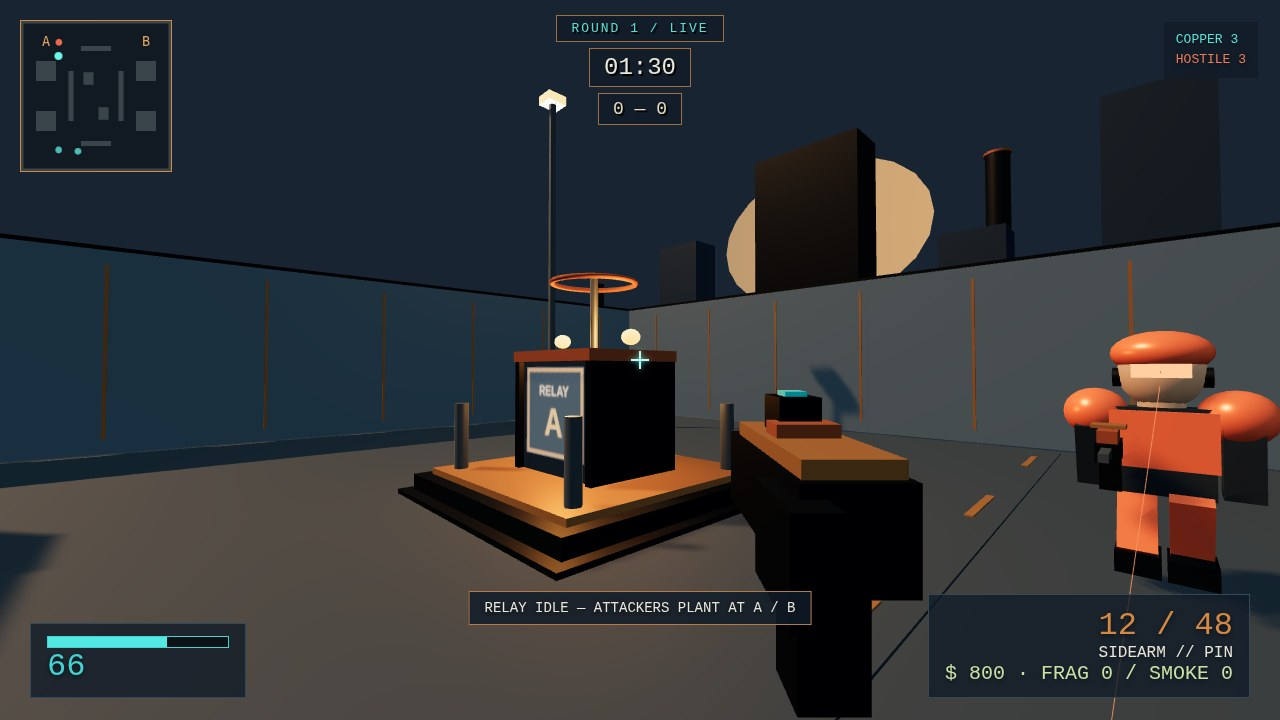
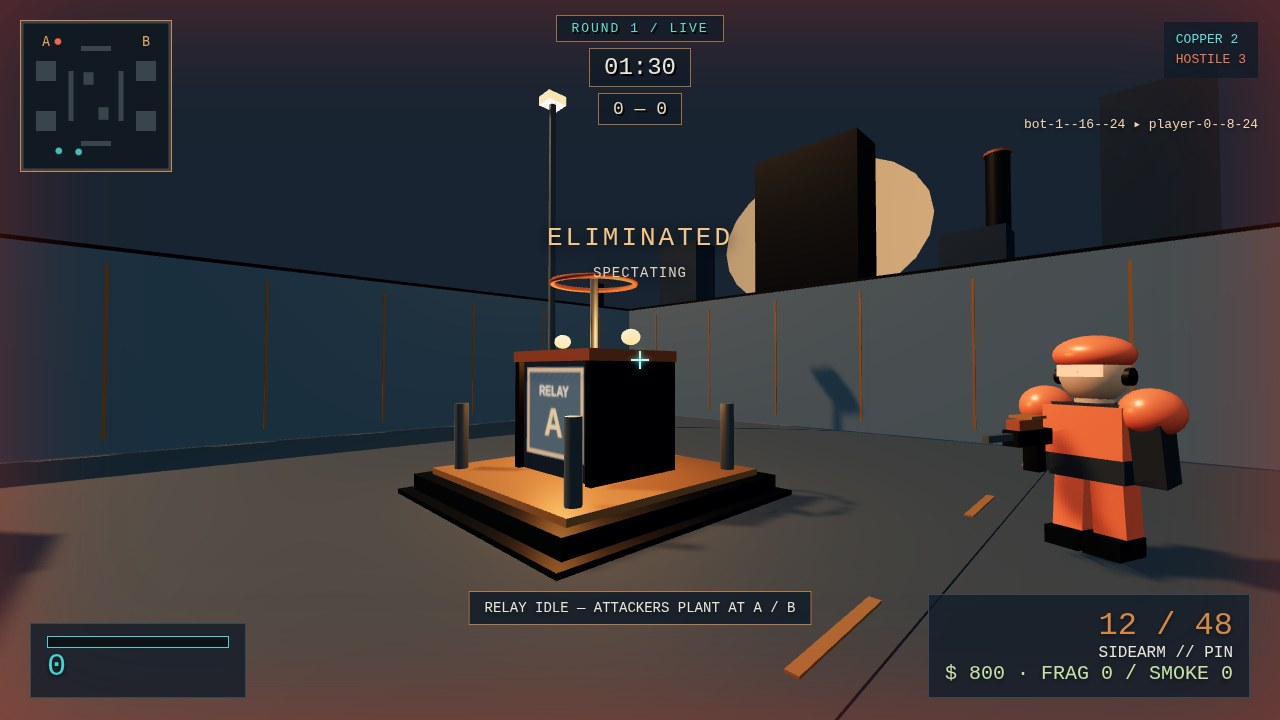
Fix objective lifecycle and input; add hearing and tactical bot roles

Changed region(s): [[0.0, 0.0, 1.0, 1.0], [0.4062, 0.3056, 0.5938, 0.3667], [0.4688, 0.3667, 0.5312, 0.3972]]

diff --git a/game/sim.js b/game/sim.js
@@ -33,23 +33,28 @@ function entity(type, team, x, z, weapon = 'pistol', money = 800) {
     yaw: team === 0 ? 0 : Math.PI, pitch: 0, crouch: false, sprint: false, aim: false, dead: false, armor: 0,
     weapon, mag: gun.mag, reserve: gun.reserve, reload: 0, fireDelay: random() * 300, recoil: 0,
     grenades: { frag: 0, smoke: 0 }, money, ai: type === 'bot' ? { target: null, route: [], routeAt: 0, think: random() * 300,
-      plant: 0, defuse: 0, pathKey: '', pathAt: 0, pathAge: 1000, stuckMs: 0, lastX: x, lastZ: z } : null };
+      plant: 0, defuse: 0, roleSite: x < 0 ? 0 : 1, pathKey: '', pathAt: 0, pathAge: 1000, stuckMs: 0, lastX: x, lastZ: z,
+      lastHeard: -Infinity, investigateX: x, investigateZ: z, investigateUntil: 0, engageMs: 0, burstMs: 0 } : null };
 }
 function newRound() {
   State.phase = 'BUY'; State.timer = BUY_MS; State.elapsed = 0; State.winner = null;
-  State.relay = { status: 'IDLE', site: null, progress: 0, fuse: FUSE_MS, defuse: 0 };
+  State.relay = { status: 'IDLE', site: null, progress: 0, plantOwner: null, plantSite: null, fuse: FUSE_MS, defuse: 0, defuseOwner: null };
   State.tracers.length = 0; State.grenades.length = 0;
   const oldPlayer = State.entities[0], playerMoney = State.cash[0];
-  const carry = oldPlayer ? { weapon: oldPlayer.weapon, armor: oldPlayer.armor, grenades: { ...oldPlayer.grenades } } : null;
+  const carry = oldPlayer&&!oldPlayer.dead ? { weapon: oldPlayer.weapon, armor: oldPlayer.armor, grenades: { ...oldPlayer.grenades } } : null;
   State.entities = [entity('player', 0, -8, 24, carry?.weapon || 'pistol', playerMoney),
     entity('bot', 0, -14, 24, 'rifle', State.cash[0]), entity('bot', 0, -5, 24, 'rifle', State.cash[0]),
     entity('bot', 1, -16, -24, 'rifle', State.cash[1]), entity('bot', 1, 16, -24, 'rifle', State.cash[1]), entity('bot', 1, 0, -25, 'sniper', State.cash[1])];
   if (carry) Object.assign(State.entities[0], carry);
   State.entities.forEach(e => { e.money = e.team === 0 ? State.cash[0] : State.cash[1]; });
+  const smokeCarrier=State.entities.find(e=>e.type==='bot'&&e.team===0),fragCarrier=State.entities.find(e=>e.type==='bot'&&e.team===1);
+  if(smokeCarrier&&smokeCarrier.money>=300){smokeCarrier.money-=300;smokeCarrier.grenades.smoke=1;}
+  if(fragCarrier&&fragCarrier.money>=400){fragCarrier.money-=400;fragCarrier.grenades.frag=1;}
+  State.events.length=0;
 }
 export function startMatch(seed = 12345) {
   State.score = [0, 0]; State.cash = [800, 8000]; State.round = 1;
-  State.rng = (Math.abs(Math.trunc(seed)) % 2147483646) + 1; State.events = []; newRound(); return State;
+  State.rng = (Math.abs(Math.trunc(seed)) % 2147483646) + 1; State.events = []; State.entities = []; newRound(); return State;
 }
 startMatch();
 
@@ -77,20 +82,29 @@ function rayAABB(o, d, maxDistance, box) {
 function wallDistance(o, d, max) {
   let nearest = max;
   for (const b of BOXES) nearest = Math.min(nearest, rayAABB(o, d, nearest, b));
-  for (const g of State.grenades) if (g.kind === 'smoke' && g.fuse < 0 && Math.hypot(o.x-g.x,o.z-g.z) < 4 && Math.abs(o.y-g.y) < 3) nearest = Math.min(nearest, 0);
+  return nearest;
+}
+function smokeDistance(o,d,max) {
+  let nearest=max;
+  for(const g of State.grenades) if(g.kind==='smoke'&&g.fuse<0){
+    const ox=o.x-g.x,oy=o.y-(g.y+1),oz=o.z-g.z,b=ox*d.x+oy*d.y+oz*d.z,c=ox*ox+oy*oy+oz*oz-3.5*3.5,disc=b*b-c;
+    if(disc<0)continue;const near=-b-Math.sqrt(disc),far=-b+Math.sqrt(disc);if(far>=0&&near<=max)nearest=Math.min(nearest,Math.max(0,near));
+  }
   return nearest;
 }
 function look(e, yaw, pitch) {
   const cp = Math.cos(pitch); return { x: -Math.sin(yaw)*cp, y: Math.sin(pitch), z: -Math.cos(yaw)*cp };
 }
-function visible(a, b) {
+export function canSee(a,b) {
   if (!a || !b || !Number.isFinite(b.x) || !Number.isFinite(b.z)) return false;
   const origin = { x:a.x, y:a.y+(a.crouch?1.05:1.55), z:a.z }, target = { x:b.x, y:b.y+(b.crouch?1.05:1.55), z:b.z };
   const dx=target.x-origin.x,dy=target.y-origin.y,dz=target.z-origin.z,length=Math.hypot(dx,dy,dz);
-  return wallDistance(origin,{x:dx/length,y:dy/length,z:dz/length},length) >= length-.2;
+  const direction={x:dx/length,y:dy/length,z:dz/length};
+  return wallDistance(origin,direction,length)>=length-.2&&smokeDistance(origin,direction,length)>=length-.2;
 }
+const visible=canSee;
 function traceShot(e, yaw, pitch, aiming = false) {
-  const gun = WEAPONS[e.weapon], moving = Math.hypot(e.vx,e.vz), spread = gun.spread * (aiming ? .34 : 1) + moving*.003 + e.recoil;
+  const gun = WEAPONS[e.weapon], moving = Math.hypot(e.vx,e.vz), spread = gun.spread * (aiming ? .34 : 1) * (e.crouch ? .75 : 1) * (e.sprint ? 2 : 1) + moving*.003 + e.recoil;
   yaw += (random()-.5)*spread; pitch += (random()-.5)*spread;
   const d = look(e,yaw,pitch), o = { x:e.x, y:e.y+(e.crouch?1.05:1.55), z:e.z }, range = e.weapon === 'sniper' ? 100 : 75;
   let nearest = wallDistance(o,d,range), victim = null, head = false;
@@ -107,7 +121,7 @@ function traceShot(e, yaw, pitch, aiming = false) {
   }
   const end={x:o.x+d.x*nearest,y:o.y+d.y*nearest,z:o.z+d.z*nearest};
   State.tracers.push({from:o,to:end,life:100,team:e.team});
-  event('shot',{entity:e.id,team:e.team,weapon:e.weapon});
+  event('shot',{entity:e.id,team:e.team,weapon:e.weapon,x:e.x,z:e.z});
   if (victim) damage(e,victim,gun.dmg*(head?3:1),head);
 }
 function damage(source,target,amount,head=false) {
@@ -174,25 +188,37 @@ function routeFor(e,target,dt) {
 }
 function aiInput(e,dt) {
   const ai=e.ai;ai.think-=dt;let target=ai.target&&State.entities.find(t=>t.id===ai.target&&!t.dead);
+  if(target&&!visible(e,target)){target=null;ai.target=null;}
   if(ai.think<=0){target=nearestEnemy(e);ai.target=target?.id||null;ai.think=220+random()*180;}
+  if(!target){const sound=State.events.findLast?.(ev=>ev.type==='shot'&&ev.team!==e.team&&ev.time>=State.elapsed-1500&&Math.hypot(ev.x-e.x,ev.z-e.z)<=22);
+    if(sound&&sound.time>ai.lastHeard){ai.lastHeard=sound.time;ai.investigateX=sound.x;ai.investigateZ=sound.z;ai.investigateUntil=State.elapsed+3000;}}
   const attacker=e.team===0;let objective=null;
-  if(attacker&&State.relay.status==='IDLE')objective=SITES.reduce((a,s)=>dist(e,s)<dist(e,a)?s:a,SITES[0]);
+  if(attacker&&State.relay.status==='IDLE')objective=SITES[ai.roleSite];
   else if(!attacker&&State.relay.status==='PLANTED')objective=State.relay.site;
-  const waypoint=routeFor(e,objective||target||{x:0,z:0},dt);
+  else if(!attacker) objective=SITES[ai.roleSite];
+  else if(attacker&&State.relay.status==='PLANTED')objective=State.relay.site;
+  const investigate=!target&&State.elapsed<ai.investigateUntil?{x:ai.investigateX,z:ai.investigateZ}:null;
+  const holdObjective=objective&&((attacker&&State.relay.status==='IDLE')||(!attacker&&State.relay.status==='PLANTED'));
+  const approachOffset=attacker&&State.relay.status==='PLANTED'?4:5;
+  const goal=investigate||(objective?{x:objective.x,z:holdObjective?objective.z:objective.z+approachOffset}:target)||{x:0,z:0};
+  const waypoint=routeFor(e,goal,dt), range=target?dist(e,target):Infinity;
+  let moving=true,crouch=false;
+  if(objective&&dist(e,objective)<2.3){moving=false;if(attacker&&State.relay.status==='IDLE')ai.plant+=dt;}
+  else if(attacker&&State.relay.status==='IDLE')ai.plant=0;
+  else if(target&&range<20){ai.engageMs+=dt;ai.burstMs-=dt;crouch=true;if(ai.burstMs<=0){if(ai.engageMs<700){moving=false;}else{moving=true;ai.engageMs=0;ai.burstMs=180+random()*120;}}}
+  else {ai.engageMs=0;ai.burstMs=0;}
   let yaw=e.yaw,pitch=0,fireNow=false;
-  if(target){const dx=target.x-e.x,dy=target.y+1.2-(e.y+1.5),dz=target.z-e.z,yawTarget=Math.atan2(-dx,-dz),pitchTarget=Math.atan2(dy,Math.hypot(dx,dz));yaw+=clamp(Math.atan2(Math.sin(yawTarget-yaw),Math.cos(yawTarget-yaw)),-dt*.003,dt*.003);pitch=pitchTarget+(random()-.5)*.03;fireNow=dist(e,target)<38&&visible(e,target)&&Math.abs(Math.atan2(Math.sin(yawTarget-yaw),Math.cos(yawTarget-yaw)))<.12;}
+  if(target){const dx=target.x-e.x,dy=target.y+1.2-(e.y+1.5),dz=target.z-e.z,yawTarget=Math.atan2(-dx,-dz),pitchTarget=Math.atan2(dy,Math.hypot(dx,dz));yaw+=clamp(Math.atan2(Math.sin(yawTarget-yaw),Math.cos(yawTarget-yaw)),-dt*.003,dt*.003);pitch=pitchTarget+(random()-.5)*.03;fireNow=range<38&&visible(e,target)&&Math.abs(Math.atan2(Math.sin(yawTarget-yaw),Math.cos(yawTarget-yaw)))<.12;}
   else {const dx=waypoint.x-e.x,dz=waypoint.z-e.z;if(Math.hypot(dx,dz)>1)yaw=Math.atan2(-dx,-dz);}
+  if(e.grenades.smoke&&target&&range>=8&&range<=18&&e.team===0){const gx=target.x, gz=target.z;if(!State.entities.some(a=>!a.dead&&a.team===e.team&&Math.hypot(a.x-gx,a.z-gz)<4))grenade(e,'smoke',Math.atan2(-(gx-e.x),-(gz-e.z)),0);}
+  if(e.grenades.frag&&target&&range>=8&&range<=18&&e.team===1){const gx=target.x,gz=target.z;if(!State.entities.some(a=>!a.dead&&a.team===e.team&&Math.hypot(a.x-gx,a.z-gz)<4))grenade(e,'frag',Math.atan2(-(gx-e.x),-(gz-e.z)),.12);}
   e.yaw=yaw;e.pitch=pitch;
-  if(objective&&dist(e,objective)<2&&attacker&&State.relay.status==='IDLE')ai.plant+=dt;else ai.plant=0;
-  if(objective&&dist(e,objective)<2&&!attacker&&State.relay.status==='PLANTED')ai.defuse+=dt;else ai.defuse=0;
-  return {moveX:waypoint.x-e.x,moveZ:waypoint.z-e.z,yaw,pitch,fire:fireNow,aim:true};
+  return {moveX:moving?waypoint.x-e.x:0,moveZ:moving?waypoint.z-e.z:0,yaw,pitch,fire:fireNow,aim:true,crouch};
 }
 function interactEntity(e, input, dt) {
   if(!input.interact||e.dead)return;
-  const attackers=State.entities.filter(t=>!t.dead&&t.team===0),defenders=State.entities.filter(t=>!t.dead&&t.team===1);
-  if(State.relay.status==='IDLE'&&e.team===0){const site=SITES.find(s=>dist(e,s)<2.4);if(site){State.relay.progress+=dt;if(State.relay.progress>=3000){State.relay.status='PLANTED';State.relay.site=site;State.relay.fuse=FUSE_MS;State.relay.progress=0;event('planted',{site:site.id});}}else State.relay.progress=0;}
-  else if(State.relay.status==='PLANTED'&&e.team===1&&dist(e,State.relay.site)<2.4){State.relay.defuse+=dt;if(State.relay.defuse>=5000){State.relay.status='DEFUSED';event('defused');endRound(1);}}else if(e.team===1)State.relay.defuse=0;
-  if(attackers.length===0)endRound(1);else if(defenders.length===0&&State.relay.status!=='PLANTED')endRound(0);
+  if(State.relay.status==='IDLE'&&e.team===0){const site=SITES.find(s=>dist(e,s)<2.4);if(site){if(State.relay.plantOwner!==e.id||State.relay.plantSite?.id!==site.id){State.relay.progress=0;State.relay.plantOwner=e.id;State.relay.plantSite=site;}State.relay.progress+=dt;if(State.relay.progress>=3000){State.relay.status='PLANTED';State.relay.site=site;State.relay.fuse=FUSE_MS;State.relay.progress=0;State.relay.plantOwner=null;event('planted',{site:site.id});}}}
+  else if(State.relay.status==='PLANTED'&&e.team===1&&dist(e,State.relay.site)<2.4){State.relay.defuseOwner=e.id;State.relay.defuse+=dt;if(State.relay.defuse>=5000){State.relay.status='DEFUSED';event('defused');endRound(1);}}
 }
 export function interact(e=State.entities[0],dt=16) { if(!e||State.phase!=='LIVE')return false;interactEntity(e,{interact:true},dt);return true; }
 function updateGrenades(dt) {
@@ -202,12 +228,27 @@ function updateGrenades(dt) {
     else if(g.kind==='smoke'&&g.fuse<=0){g.fuse=-1;g.vx=0;g.vz=0;g.vy=0;g.life-=dt;if(g.life<=0)State.grenades.splice(i,1);}
   }
 }
-function checkElimination() { const alive=[0,1].map(team=>State.entities.some(e=>!e.dead&&e.team===team));if(!alive[0])endRound(1);else if(!alive[1]&&State.relay.status!=='PLANTED')endRound(0); }
+function checkElimination() {
+  const alive=[0,1].map(team=>State.entities.some(e=>!e.dead&&e.team===team));
+  if(State.relay.status==='PLANTED'){if(!alive[1])endRound(0);return;}
+  if(!alive[0])endRound(1);else if(!alive[1])endRound(0);
+}
 function endRound(winner) { if(State.phase==='END'||State.phase==='MATCH')return;State.phase='END';State.timer=END_MS;State.winner=winner;State.score[winner]++;State.cash[winner]+=3000;State.cash[1-winner]+=1900;event('round-end',{winner,score:[...State.score]});if(State.score[winner]>=4){State.phase='MATCH';State.timer=0;event('match-end',{winner});} }
 function updateObjective(dt) {
-  if(State.relay.status==='PLANTED'){State.relay.fuse-=dt;if(State.relay.fuse<=0)endRound(0);
-    if(!State.entities.some(e=>!e.dead&&e.team===0))endRound(1);if(!State.entities.some(e=>!e.dead&&e.team===1))endRound(0);
-    for(const e of State.entities.filter(e=>e.type==='bot'&&e.team===1&&!e.dead)){if(dist(e,State.relay.site)<2&&visible(e,{...State.relay.site,y:0,crouch:false})){e.ai.defuse+=dt;if(e.ai.defuse>=5000){State.relay.status='DEFUSED';event('defused',{by:e.id});endRound(1);break;}}else e.ai.defuse=0;}
+  if(State.relay.status==='IDLE'){
+    const owner=State.entities.find(e=>e.id===State.relay.plantOwner);
+    if(!owner||owner.dead||owner.team!==0||dist(owner,State.relay.plantSite)>=2.4){State.relay.progress=0;State.relay.plantOwner=null;State.relay.plantSite=null;}
+  }
+  if(State.relay.status==='PLANTED'){
+    State.relay.fuse-=dt;if(State.relay.fuse<=0)endRound(0);
+    if(!State.entities.some(e=>!e.dead&&e.team===1))endRound(0);
+    for(const e of State.entities.filter(e=>e.type==='bot'&&e.team===1&&!e.dead)){
+      if(dist(e,State.relay.site)<2.4&&visible(e,{...State.relay.site,y:0,crouch:false})){e.ai.defuse+=dt;if(e.ai.defuse>=5000){State.relay.status='DEFUSED';event('defused',{by:e.id});endRound(1);break;}}
+      else e.ai.defuse=0;
+    }
+    const playerDefuser=State.entities.find(e=>e.type==='player'&&e.team===1&&!e.dead);
+    if(playerDefuser&&playerDefuser.id===State.relay.defuseOwner&&dist(playerDefuser,State.relay.site)<2.4){if(State.relay.defuse>=5000){State.relay.status='DEFUSED';event('defused',{by:playerDefuser.id});endRound(1);}}
+    else if(State.relay.defuseOwner){State.relay.defuse=0;State.relay.defuseOwner=null;}
   }
 }
 export function step(dt, input = {}) {
@@ -221,12 +262,13 @@ export function step(dt, input = {}) {
   else if(State.phase==='LIVE'&&State.timer<=0&&State.relay.status!=='PLANTED'){endRound(1);return State;}
   for(const e of State.entities){if(e.dead)continue;if(e.fireDelay>0)e.fireDelay-=dt;if(e.recoil>0)e.recoil=Math.max(0,e.recoil-dt*.000018);if(e.reload>0){e.reload-=dt;if(e.reload<=0)finishReload(e);}
     if(e.type==='bot'&&State.phase==='BUY')continue;
+    if(e.type==='player'&&State.phase==='LIVE'&&State.relay.status==='IDLE'&&!input.interact){State.relay.progress=0;State.relay.plantOwner=null;State.relay.plantSite=null;}
+    if(e.type==='player'&&State.phase==='LIVE'&&State.relay.status==='PLANTED'&&e.team===1&&!input.interact){State.relay.defuse=0;State.relay.defuseOwner=null;}
     const control=e.type==='player'?input:aiInput(e,dt);e.yaw=Number.isFinite(control.yaw)?control.yaw:e.yaw;e.pitch=Number.isFinite(control.pitch)?control.pitch:e.pitch;e.aim=!!control.aim;move(e,control,dt);
     if(control.reload)reload(e);if(control.interact&&State.phase==='LIVE')interactEntity(e,control,dt);if(control.fire&&State.phase==='LIVE')shoot(e,control);
-    if(e.type==='bot'&&e.ai){if(e.ai.plant>=3000&&State.relay.status==='IDLE'){const site=SITES.reduce((a,s)=>dist(e,s)<dist(e,a)?s:a,SITES[0]);State.relay.status='PLANTED';State.relay.site=site;State.relay.fuse=FUSE_MS;event('planted',{site:site.id,by:e.id});}}
+    if(e.type==='bot'&&e.ai){if(e.ai.plant>=3000&&State.relay.status==='IDLE'){const site=SITES[e.ai.roleSite];State.relay.status='PLANTED';State.relay.site=site;State.relay.fuse=FUSE_MS;State.relay.plantOwner=e.id;event('planted',{site:site.id,by:e.id});}}
   }
   updateGrenades(dt);updateObjective(dt);
-  if(State.phase==='LIVE'&&State.relay.status==='IDLE'&&!State.entities.some(e=>!e.dead&&e.team===1))endRound(0);
-  if(State.phase==='LIVE'&&State.relay.status!=='PLANTED'&&!State.entities.some(e=>!e.dead&&e.team===0))endRound(1);
+  if(State.phase==='LIVE'&&State.relay.status==='IDLE')checkElimination();
   return State;
 }

diff --git a/game/main.js b/game/main.js
@@ -1,4 +1,4 @@
-import { State, startMatch, step, buy, reload, grenade, BOXES, SITES } from './sim.js';
+import { State, startMatch, step, buy, reload, grenade, BOXES, SITES, canSee } from './sim.js';
 import { createView } from './view.js';
 
 const $ = (selector) => document.querySelector(selector);
@@ -123,9 +123,10 @@ function addControls() {
 }
 addControls();
 
-function requestLock() { if (!preview && canvas.requestPointerLock) { try { canvas.requestPointerLock(); } catch {} } }
+function requestLock() { if (!preview && canvas.requestPointerLock) { try { const request=canvas.requestPointerLock();request?.catch?.(()=>{}); } catch {} } }
 function deploy(skipBuy = false) {
-  ensureAudio(); startMatch(); deployed = true; paused = false; firing = false; aiming = false; accumulator = 0;
+  ensureAudio(); if(document.activeElement instanceof HTMLElement)document.activeElement.blur();keys.clear();menuOpen=false;
+  startMatch(); deployed = true; paused = false; firing = false; aiming = false; accumulator = 0;
   if (skipBuy) step(FIXED, { skip: true });
   hideOverlay(); if (!preview) requestLock(); updateHUD();
 }
@@ -146,6 +147,7 @@ window.addEventListener('mouseup', event => { if (event.button === 0) firing = f
 container.addEventListener('contextmenu', event => event.preventDefault());
 function buyBySlot(slot) { if (State.phase !== 'BUY') return; buy(player(), ['pistol', 'rifle', 'sniper'][slot]); }
 window.addEventListener('keydown', event => {
+  if(deployed&&event.code==='Enter')event.preventDefault();
   if (['Space','ArrowUp','ArrowDown','ArrowLeft','ArrowRight'].includes(event.code)) event.preventDefault();
   if (event.code === 'Escape') {
     if (!deployed) return;
@@ -163,7 +165,7 @@ window.addEventListener('keydown', event => {
   if (event.code === 'KeyG') grenade(player(), 'frag');
   if (event.code === 'KeyH') grenade(player(), 'smoke');
   if (event.code === 'KeyB' && State.phase === 'BUY') { overlay('buy'); if (document.pointerLockElement) document.exitPointerLock(); }
-  if (event.code === 'Enter' && State.phase === 'BUY') { step(FIXED, { skip: true }); processEvents(); }
+  if (event.code === 'Enter' && !paused && State.phase === 'BUY') { step(FIXED, { skip: true }); processEvents(); }
   if (event.code === 'Digit1') buyBySlot(0); if (event.code === 'Digit2') buyBySlot(1); if (event.code === 'Digit3') buyBySlot(2);
 });
 window.addEventListener('keyup', event => keys.delete(event.code));
@@ -187,7 +189,7 @@ function drawMinimap() {
   for (const site of SITES) { ctx.fillStyle='#dfa15e';ctx.fillText(site.id,px(site.x),pz(site.z)); }
   const me=player(); if (!me) return;
   for (const e of State.entities) if (!e.dead) {
-    if (e.team !== me.team && Math.hypot(e.x-me.x,e.z-me.z)>19) continue;
+    if (e.team !== me.team && !canSee(me,e)) continue;
     ctx.fillStyle=e.type==='player'?'#69f4e6':e.team===me.team?'#4dbbb5':'#ec6949';ctx.beginPath();ctx.arc(px(e.x),pz(e.z),e.type==='player'?4:3.3,0,Math.PI*2);ctx.fill();
   }
 }
@@ -206,8 +208,8 @@ function updateHUD() {
   else if(State.relay.progress>0) objective.textContent=`PLANTING ${Math.min(100,Math.floor(State.relay.progress/30))}% — HOLD E`;
   else if(State.phase==='BUY') objective.textContent=`BUY PHASE — $${p.money.toLocaleString()}  ·  B MARKET  ·  ENTER DEPLOY`;
   else objective.textContent=`RELAY IDLE — ATTACKERS PLANT AT A / B`;
-  if(!p.hp||p.dead){bannerTitle.textContent='ELIMINATED';bannerSub.textContent=State.phase==='END'?'ROUND COMPLETE — NEXT ROUND IN A MOMENT':'SPECTATING';}
-  else if(State.phase==='MATCH'){bannerTitle.textContent=State.winner===0?'COPPERLINE VICTORY':'HOSTILES WIN';bannerSub.textContent='FIRST TO FOUR ROUNDS';}
+  if(State.phase==='MATCH'){bannerTitle.textContent=State.winner===0?'COPPERLINE VICTORY':'HOSTILES WIN';bannerSub.textContent='FIRST TO FOUR ROUNDS';}
+  else if(!p.hp||p.dead){bannerTitle.textContent='ELIMINATED';bannerSub.textContent=State.phase==='END'?'ROUND COMPLETE — NEXT ROUND IN A MOMENT':'SPECTATING';}
   else if(State.phase==='END'){bannerTitle.textContent=State.winner===0?'ROUND WON':'ROUND LOST';bannerSub.textContent=`${State.score[0]} — ${State.score[1]}  ·  NEXT ROUND` ;}
   else if(State.phase==='BUY'){bannerTitle.textContent='BUY PHASE';bannerSub.textContent=`DEPLOYING IN ${formatTime(State.timer)}`;}
   else {bannerTitle.textContent='';bannerSub.textContent='';}

diff --git a/README.md b/README.md
@@ -21,3 +21,11 @@ Serve this repository over HTTP and open `game/index.html` in a modern browser w
 - **Enter** deploy immediately; **Esc** pause or resume
 
 Buy weapons, armor, and grenades during the 15-second buy phase. Attackers can plant at either northern site; defenders can defuse before the relay fuse expires. Elimination and the round timer also resolve a round.
+
+## Changelog
+
+- Corrected buy-phase skip input, consecutive plant/defuse holds, and planted-relay elimination outcomes.
+- Preserved loadouts only for survivors, and made smoke obscure line of sight and minimap enemy markers.
+- Improved crouch/sprint firing accuracy rules while keeping simulation updates deterministic and fixed-step.
+- Bots investigate recent hostile gunfire, use cover-oriented movement and tactical grenades, split site roles, and hold plant/defuse interactions until complete.
+- Bot squads split relay-site roles, investigate recent nearby gunfire, pause and crouch to fire, assign one smoke and one frag carrier, and hold objectives while planting or defusing.
